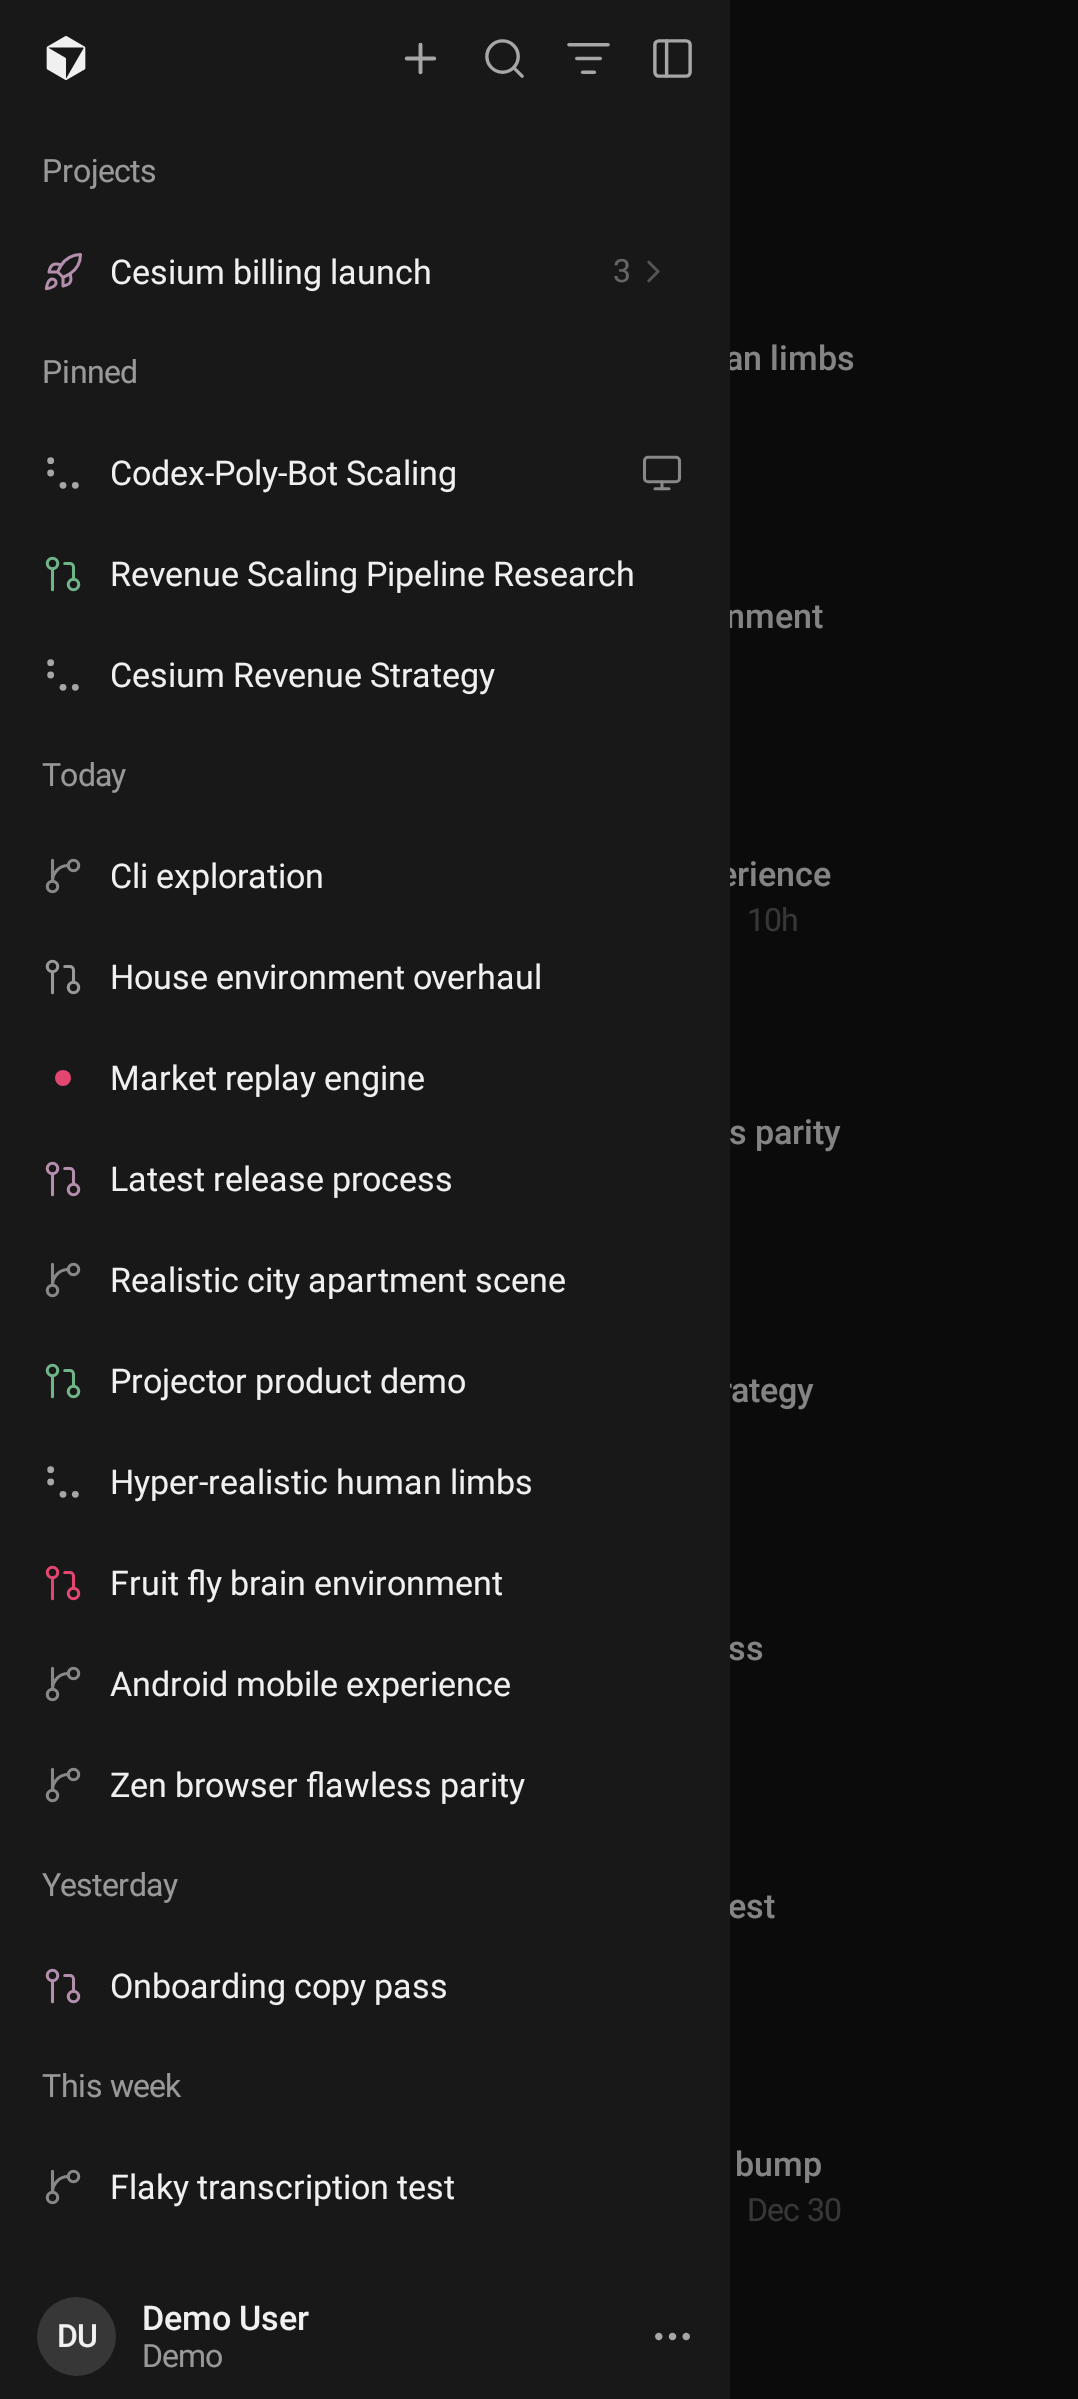
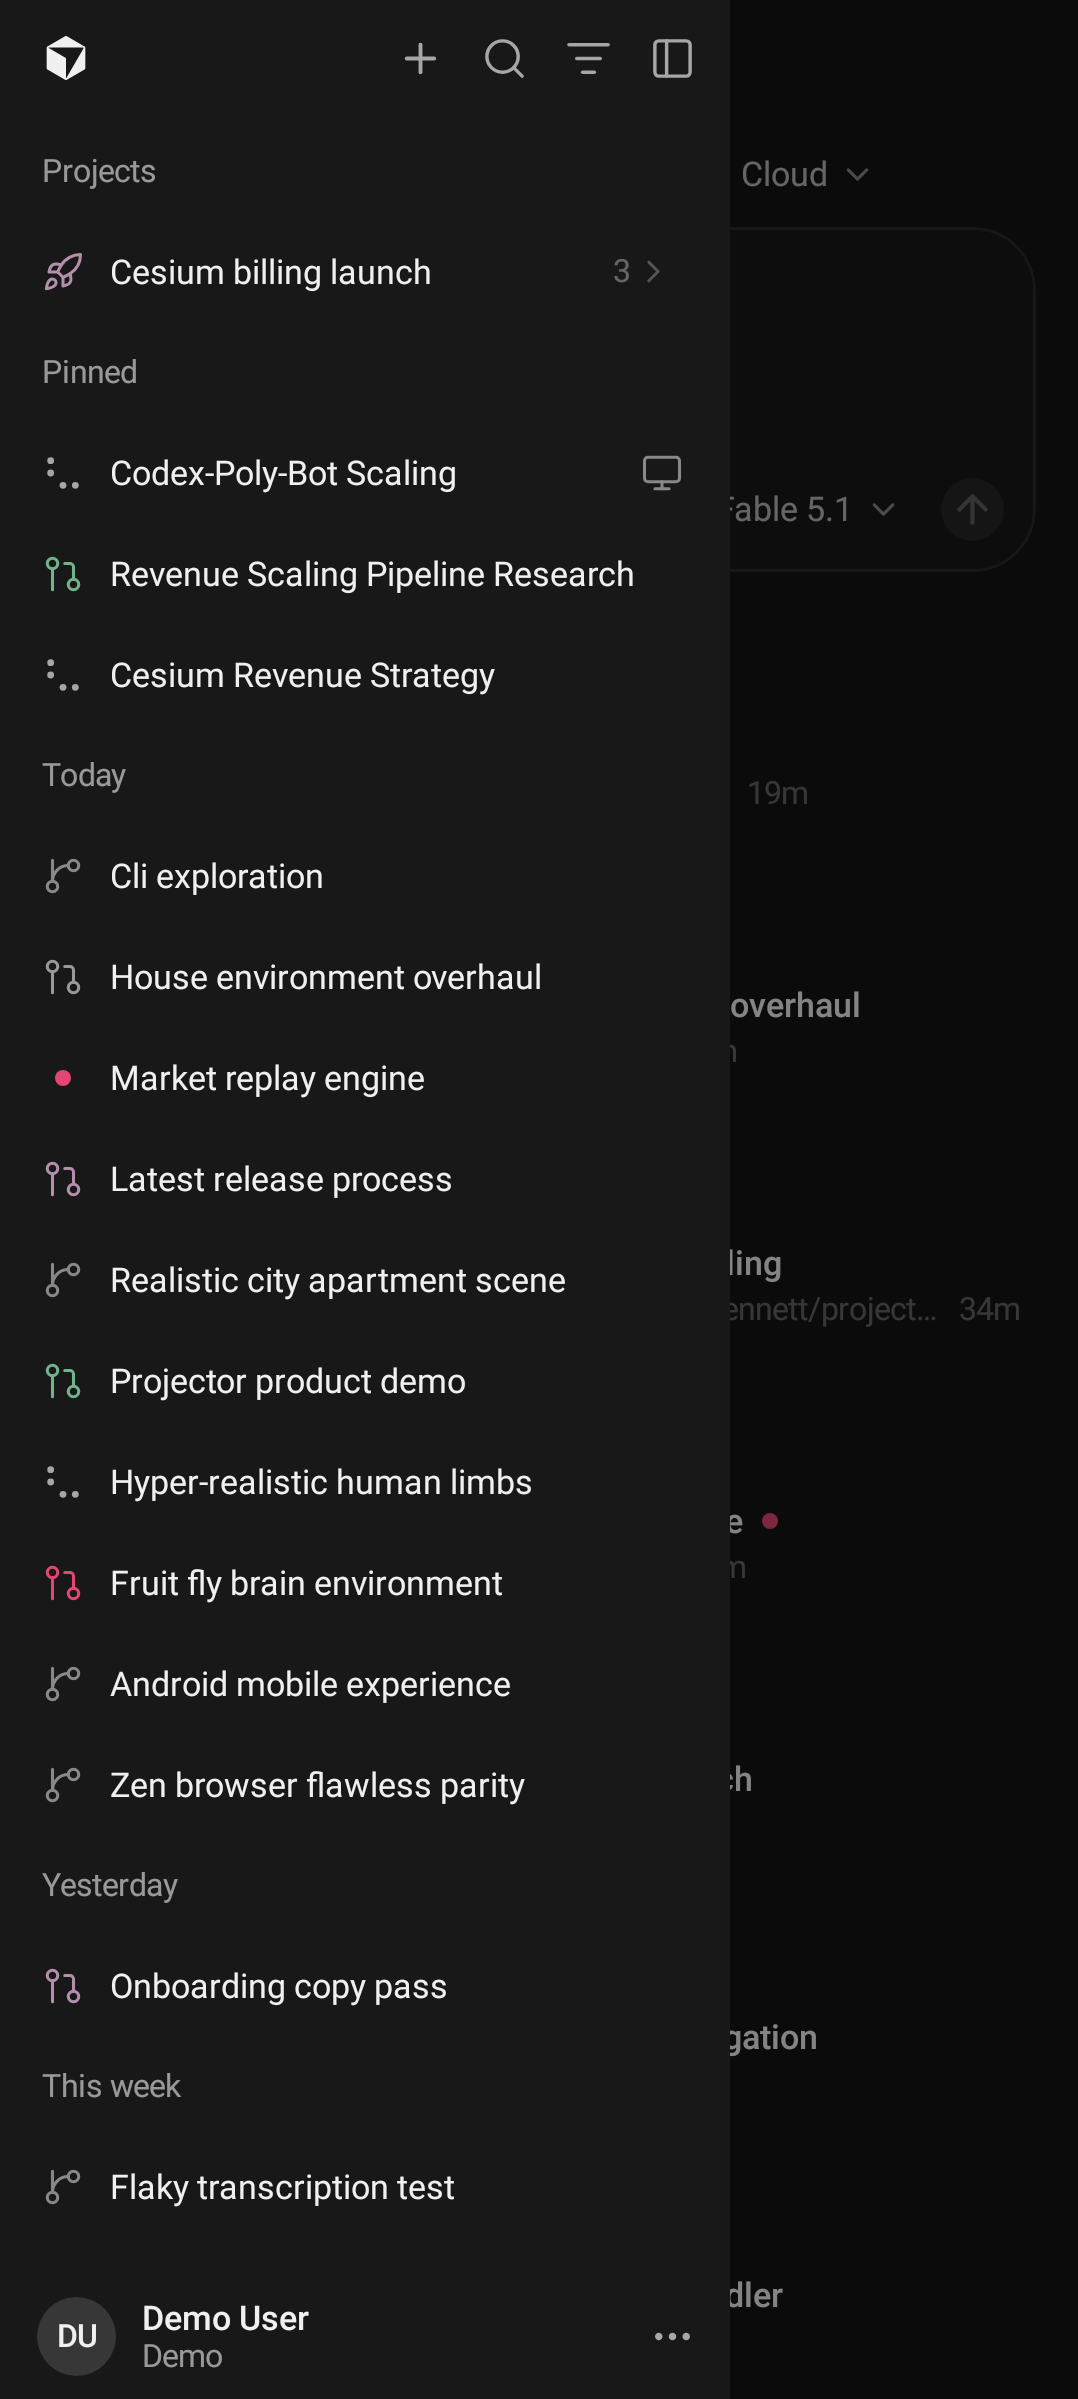
Screenshots: capture the sidebar from its top, and scroll only the recent list
The sidebar's list keeps the row that was first in view where it is when rows land above it, and the
Projects group lands above Pinned with the publish that completes the load, so a sidebar composed while
the list was loading sat past its own top - sometimes, depending on when the frame was taken. The frames
show the top: the wait now puts the list there before looking for the Projects header.

scrollListTo picked the first scrollable it found, which on a tablet (permanent drawer, composed first)
and sometimes on a phone (the closed drawer is composed too) was the sidebar rather than the recent
list; it now tells the two apart by the section headers only the sidebar has. enterDemo no longer
scrolls at all - the row it waited on is a day down the recent list since the demo was re-seeded, and
the home frames start at the composer. 04 and 28 re-recorded: their background sliver of the home screen
now shows the composer rather than a scrolled list.

diff --git a/app/src/test/java/com/cursorforandroid/screenshots/AppScreenshotTest.kt b/app/src/test/java/com/cursorforandroid/screenshots/AppScreenshotTest.kt
@@ -10,7 +10,9 @@ import androidx.compose.runtime.getValue
 import androidx.compose.runtime.mutableStateOf
 import androidx.compose.runtime.remember
 import androidx.compose.runtime.setValue
+import androidx.compose.ui.test.SemanticsMatcher
 import androidx.compose.ui.test.hasAnyAncestor
+import androidx.compose.ui.test.hasAnyDescendant
 import androidx.compose.ui.test.hasContentDescription
 import androidx.compose.ui.test.hasScrollToNodeAction
 import androidx.compose.ui.test.hasSetTextAction
@@ -22,6 +24,7 @@ import androidx.compose.ui.test.onFirst
 import androidx.compose.ui.test.onNodeWithContentDescription
 import androidx.compose.ui.test.onNodeWithText
 import androidx.compose.ui.test.performClick
+import androidx.compose.ui.test.performScrollToIndex
 import androidx.compose.ui.test.performScrollToNode
 import androidx.compose.ui.test.performTextClearance
 import androidx.compose.ui.test.performTextInput
@@ -130,16 +133,37 @@ class AppScreenshotTest {
      * The sidebar's sections are organized off the main thread from the list; a frame taken as soon as the rows are
      * there can predate the Projects group. Its header is the last thing to appear, so it is what a capture waits on.
      */
-    private fun waitForSidebarSections() = waitForText("Projects", 30_000)
+    /** The sidebar's list, told from the recent list by the section headers only it has. */
+    private val sidebarList: SemanticsMatcher = hasScrollToNodeAction() and hasAnyDescendant(hasText("Pinned") or hasText("Today"))
+
+    /**
+     * The sidebar's sections are organized off the main thread from the list, and the list keeps the row that was
+     * first in view where it is when rows land above it — the Projects group arrives with the publish that completes
+     * the load, above "Pinned" — so a sidebar composed while the list was still loading can sit past its own top.
+     * The frames show the top: put the list there, then wait for the header that lands last.
+     */
+    private fun waitForSidebarSections() {
+        compose.waitUntil(30_000) { compose.onAllNodes(sidebarList).fetchSemanticsNodes().isNotEmpty() }
+        compose.onAllNodes(sidebarList).onFirst().performScrollToIndex(0)
+        waitForText("Projects", 30_000)
+    }
 
     private fun waitForText(text: String, timeoutMillis: Long = 20_000) {
         compose.waitUntil(timeoutMillis) { compose.onAllNodes(hasText(text, substring = true)).fetchSemanticsNodes().isNotEmpty() }
     }
 
+    /**
+     * The home screen's list of recent chats. The sidebar's list is composed as well — closed, or permanent on a
+     * tablet, where it comes first — and scrolling that one instead moved its Projects group out of the frames that
+     * show it; the sidebar is the list with section headers, the recent list has none.
+     */
+    private val homeList: SemanticsMatcher =
+        hasScrollToNodeAction() and !hasAnyDescendant(hasText("Projects") or hasText("Pinned") or hasText("Today") or hasText("Yesterday") or hasText("Older"))
+
     private fun scrollListTo(text: String, timeoutMillis: Long = 30_000) {
-        compose.waitUntil(timeoutMillis) { compose.onAllNodes(hasScrollToNodeAction()).fetchSemanticsNodes().isNotEmpty() }
+        compose.waitUntil(timeoutMillis) { compose.onAllNodes(homeList).fetchSemanticsNodes().isNotEmpty() }
         compose.waitUntil(timeoutMillis) {
-            runCatching { compose.onAllNodes(hasScrollToNodeAction()).onFirst().performScrollToNode(hasText(text, substring = true)) }.isSuccess
+            runCatching { compose.onAllNodes(homeList).onFirst().performScrollToNode(hasText(text, substring = true)) }.isSuccess
         }
         waitForText(text, timeoutMillis)
     }
@@ -157,7 +181,9 @@ class AppScreenshotTest {
         // Rows are published page by page; what the demo's account list says about them — which chats are Projects,
         // which hang off which — lands with the publish that completes the fetch.
         compose.waitUntil(30_000) { graph.agents.state.value.let { it.hasLoaded && !it.isRefreshing } }
-        scrollListTo("Cesium Revenue Strategy")
+        // A pinned chat, so it sits near the top of the sidebar's list whether the drawer is open or not; nothing is
+        // scrolled to find it — the recent list has it a day down, and the home frames start at the composer.
+        compose.waitUntil(30_000) { compose.onAllNodesWithText("Cesium Revenue Strategy").fetchSemanticsNodes().isNotEmpty() }
     }
 
     @Test
